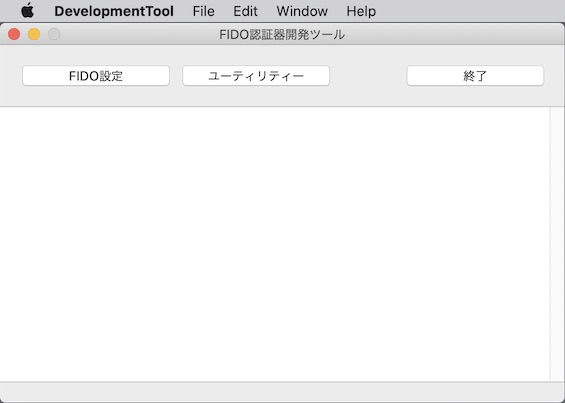
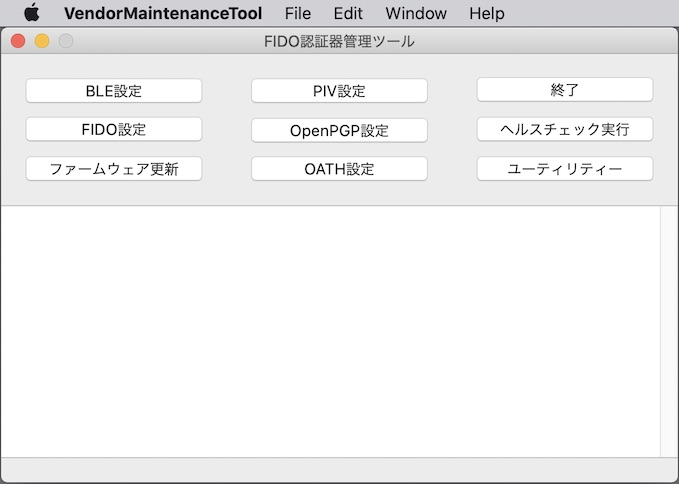
ドキュメントを更新
・ベンダー向け管理ツールのポータルを作成
（旧・開発ツールのポータルを修正）

diff --git a/MaintenanceTool/macOSApp/DEVTOOL.md b/MaintenanceTool/macOSApp/DEVTOOL.md
@@ -1,16 +1,19 @@
-# macOS版 FIDO認証器開発ツール
+# macOS版 FIDO認証器管理ツール（ベンダー向け）
 
-最終更新日：2022/6/27
+最終更新日：2023/1/12
 
 ## 概要
-PC環境から、FIDO認証器の動作に必要な各種設定／動作テスト等を行う、ベンダー向けのツールです。
+PC環境から、FIDO認証器の動作に必要な各種設定／動作テスト等を行うためのツールです。
 
 #### 動作環境
 macOS Sierra (Version 10.12.6)〜macOS Catalina (Version 10.15.7)
 
 ## 機能
-* FIDO鍵・証明書設定
-* ログファイル格納ディレクトリー参照機能
+[エンドユーザー向けの機能](README.md)に加え、下記機能を追加しています。
+
+* FIDO鍵・証明書インストール／削除
+* ブートローダーモード遷移機能
+* ファームウェアリセット機能
 
 #### 画面イメージ
 <img src="assets08/0001.jpg" width="400">
@@ -18,10 +21,16 @@ macOS Sierra (Version 10.12.6)〜macOS Catalina (Version 10.15.7)
 #### 手順書
 
 - <b>[インストール手順](../../MaintenanceTool/macOSApp/DEVTOOLINST.md)</b><br>
-FIDO認証器開発ツールをmacOS環境にインストールする手順を掲載しています。
+ベンダー向けのFIDO認証器管理ツールをmacOS環境にインストールする手順について掲載しています。
 
 - <b>[鍵・証明書の導入手順](../../MaintenanceTool/macOSApp/ATTESTATION.md)</b><br>
-FIDO認証器に、鍵・証明書をインストールする手順を掲載しています。
+FIDO認証器に、鍵・証明書をインストールする手順について掲載しています。
 
-- <b>[開発ツールのログファイル](../../MaintenanceTool/macOSApp/DEVTOOLLOG.md)</b><br>
-FIDO認証器開発ツールから出力されるログファイルについて説明しています。
+- <b>[ブートローダーモード遷移手順](../../MaintenanceTool/macOSApp/ATTESTATION.md)</b><br>
+FIDO認証器ファームウェアを手動インストールする際、ブートローダーモードに遷移させる手順について掲載しています。
+
+- <b>[認証器のリセット手順](../../MaintenanceTool/macOSApp/ATTESTATION.md)</b><br>
+FIDO認証器のファームウェアを再始動する手順について掲載しています。
+
+- <b>[管理ツールのログファイル](../../MaintenanceTool/macOSApp/DEVTOOLLOG.md)</b><br>
+ベンダー向けのFIDO認証器管理ツールから出力されるログファイルについて説明しています。

diff --git a/MaintenanceTool/macOSApp/README.md b/MaintenanceTool/macOSApp/README.md
@@ -10,7 +10,7 @@ macOS Sierra (Version 10.12.6)〜macOS Catalina (Version 10.15.7)
 
 ## 機能
 
-エンドユーザー向けと、ベンダー向けの両タイプを用意しております。
+エンドユーザー向けと、[ベンダー向け](../../MaintenanceTool/macOSApp/DEVTOOL.md)の両タイプを用意しております。
 
 #### エンドユーザー向けの機能
 
